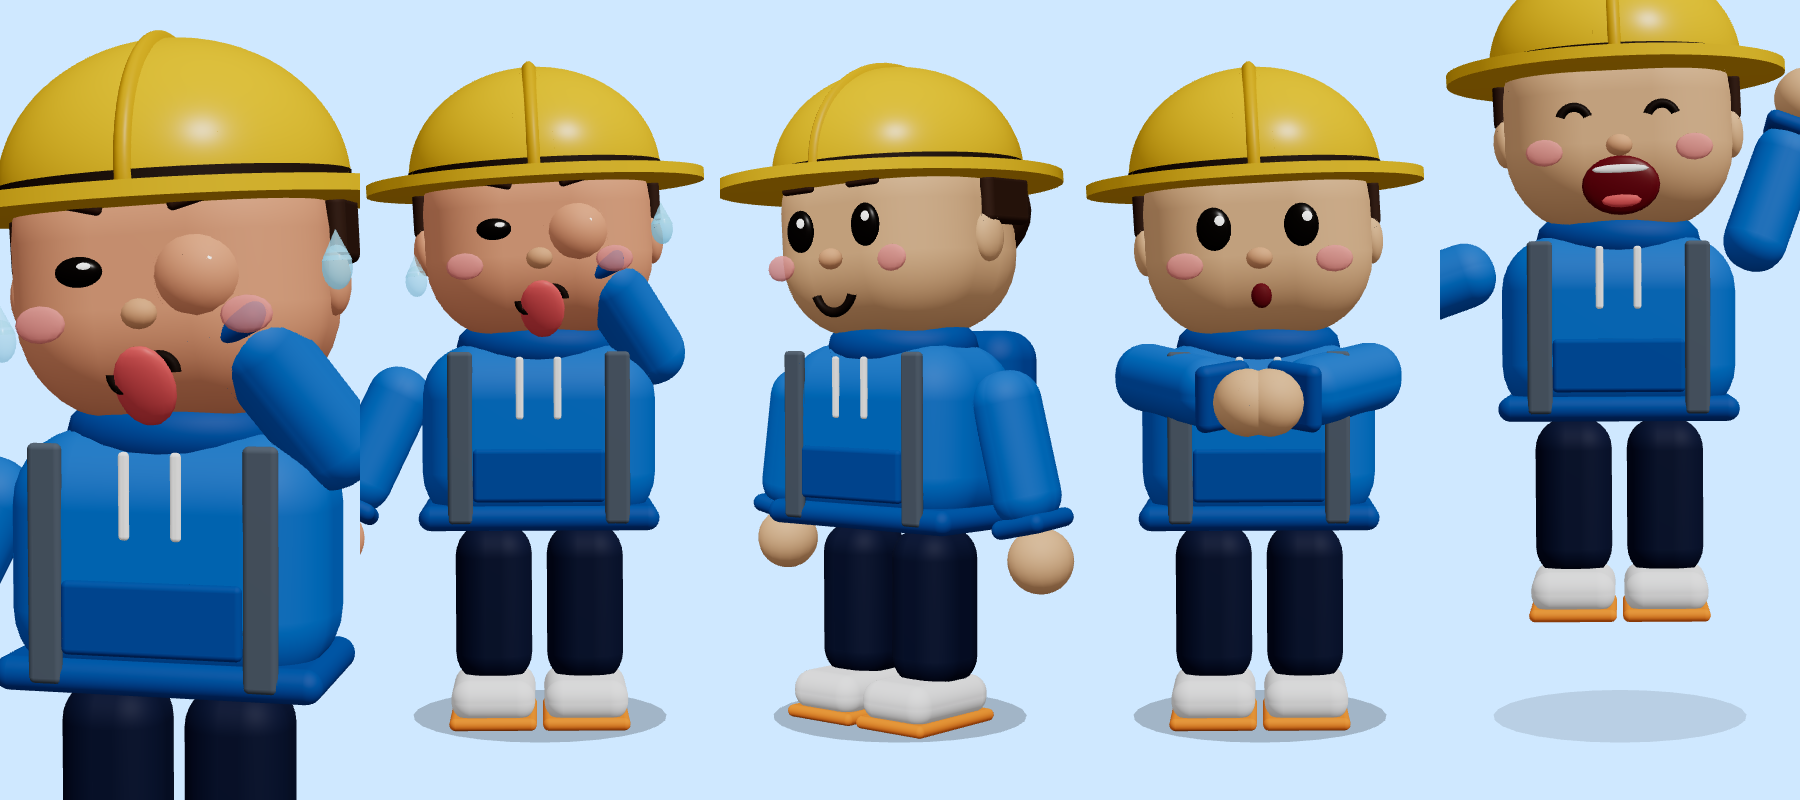
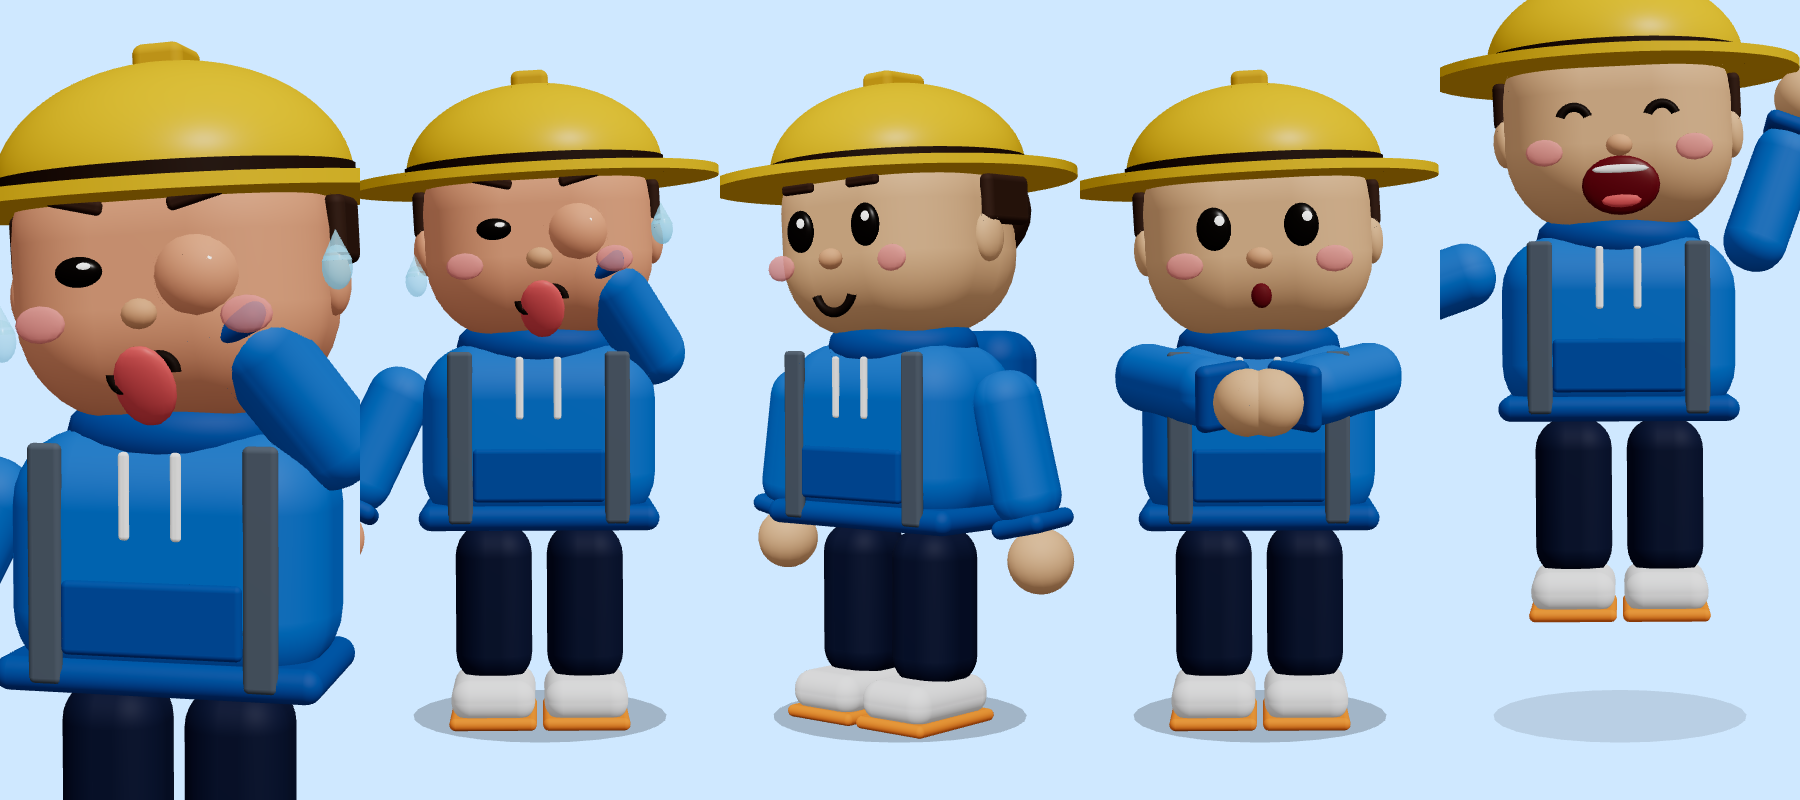
Vídeo 6 (Nordeste): capacete igual ao da referência (cúpula baixa, faixa marrom, aba larga, pino no topo)
Claude-Session: https://claude.ai/code/session_014rWy56ZnRYkPbUzaWZj2LB

diff --git a/nordeste/app/src/components/MascotRef.tsx b/nordeste/app/src/components/MascotRef.tsx
@@ -111,25 +111,21 @@ export const MascotRef: React.FC<{position?: [number, number, number]; scale?: n
               <Mat c={skin} />
             </mesh>
           ))}
-          {/* capacete amarelo de obra (como na imagem do usuário): cúpula, frisos no topo, aba em volta e faixa escura */}
-          <mesh position={[0, 0.19, -0.01]} scale={[1.12, 0.95, 1.12]}>
-            <sphereGeometry args={[0.37, 40, 20, 0, Math.PI * 2, 0, Math.PI / 2]} />
-            <meshStandardMaterial color="#f6c21c" roughness={0.35} />
+          {/* capacete amarelo igual ao da referência: cúpula baixa e larga, faixa marrom embaixo,
+              aba fina e larga em volta, pino retangular no topo e uma manchinha escura na lateral */}
+          <mesh position={[0, 0.2, -0.01]} scale={[1.14, 0.78, 1.14]}>
+            <sphereGeometry args={[0.37, 44, 22, 0, Math.PI * 2, 0, Math.PI / 2]} />
+            <meshStandardMaterial color="#f2c014" roughness={0.42} />
           </mesh>
-          <mesh position={[0, 0.19, -0.01]}>
-            <cylinderGeometry args={[0.415, 0.415, 0.05, 40]} />
-            <Mat c="#3b2a1e" />
+          <mesh position={[0, 0.2, -0.01]}>
+            <cylinderGeometry args={[0.425, 0.425, 0.06, 44]} />
+            <Mat c="#3a2416" />
           </mesh>
-          {/* aba larga, um pouco maior na frente */}
-          <mesh position={[0, 0.16, 0.03]} scale={[1, 1, 1.08]}>
-            <cylinderGeometry args={[0.55, 0.55, 0.035, 48]} />
-            <meshStandardMaterial color="#f6c21c" roughness={0.35} />
+          <mesh position={[0, 0.17, 0.01]}>
+            <cylinderGeometry args={[0.6, 0.6, 0.03, 52]} />
+            <meshStandardMaterial color="#f2c014" roughness={0.42} />
           </mesh>
-          {/* friso central no topo, da frente para trás (deitado sobre a cúpula) */}
-          <mesh position={[0, 0.19, -0.01]} scale={[0.2, 1.0, 1.16]}>
-            <sphereGeometry args={[0.37, 24, 16, 0, Math.PI * 2, 0, Math.PI / 2]} />
-            <meshStandardMaterial color="#e3ae0a" roughness={0.35} />
-          </mesh>
+          <RB w={0.12} h={0.07} d={0.2} r={0.025} c="#e0aa08" position={[0, 0.49, -0.01]} />
           {/* cabelo aparecendo pouco por baixo (costeletas e nuca) */}
           {[-1, 1].map((s2) => <RB key={"sb" + s2} w={0.05} h={0.16} d={0.22} r={0.025} c={C.hair} position={[s2 * 0.38, 0.08, -0.08]} />)}
           <mesh position={[0, 0.06, -0.2]} scale={[1.0, 0.6, 0.55]}>
